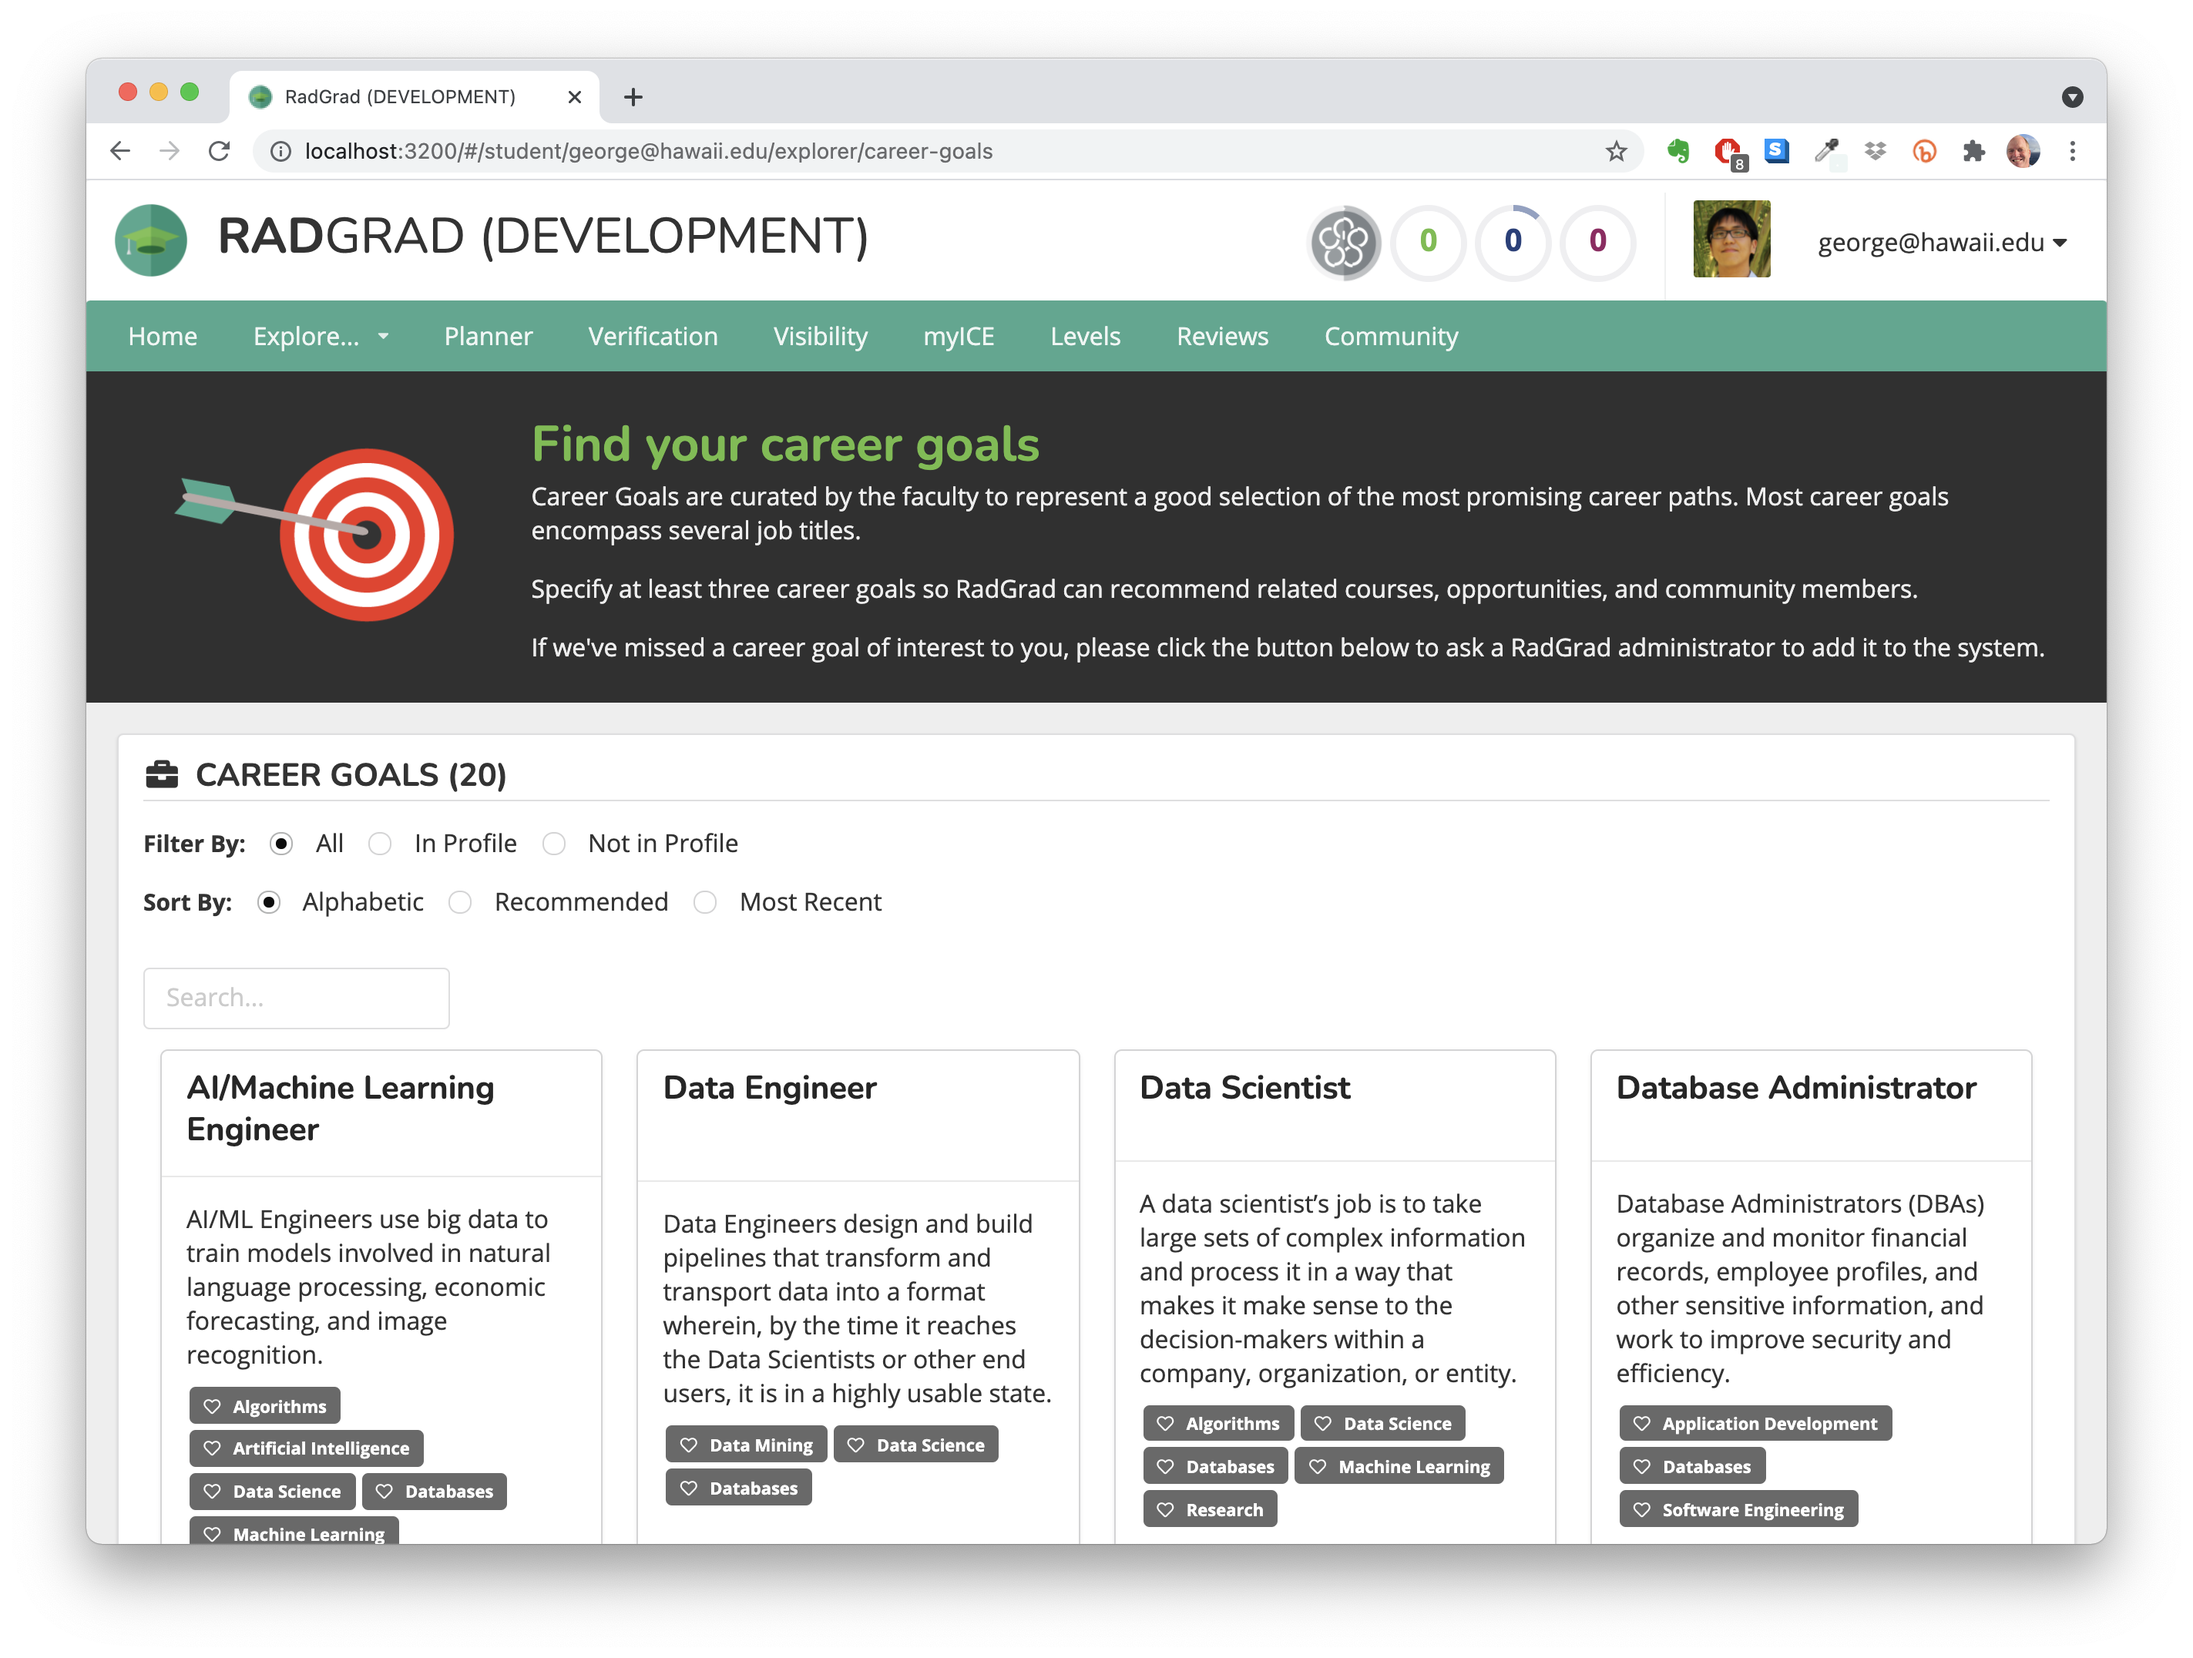
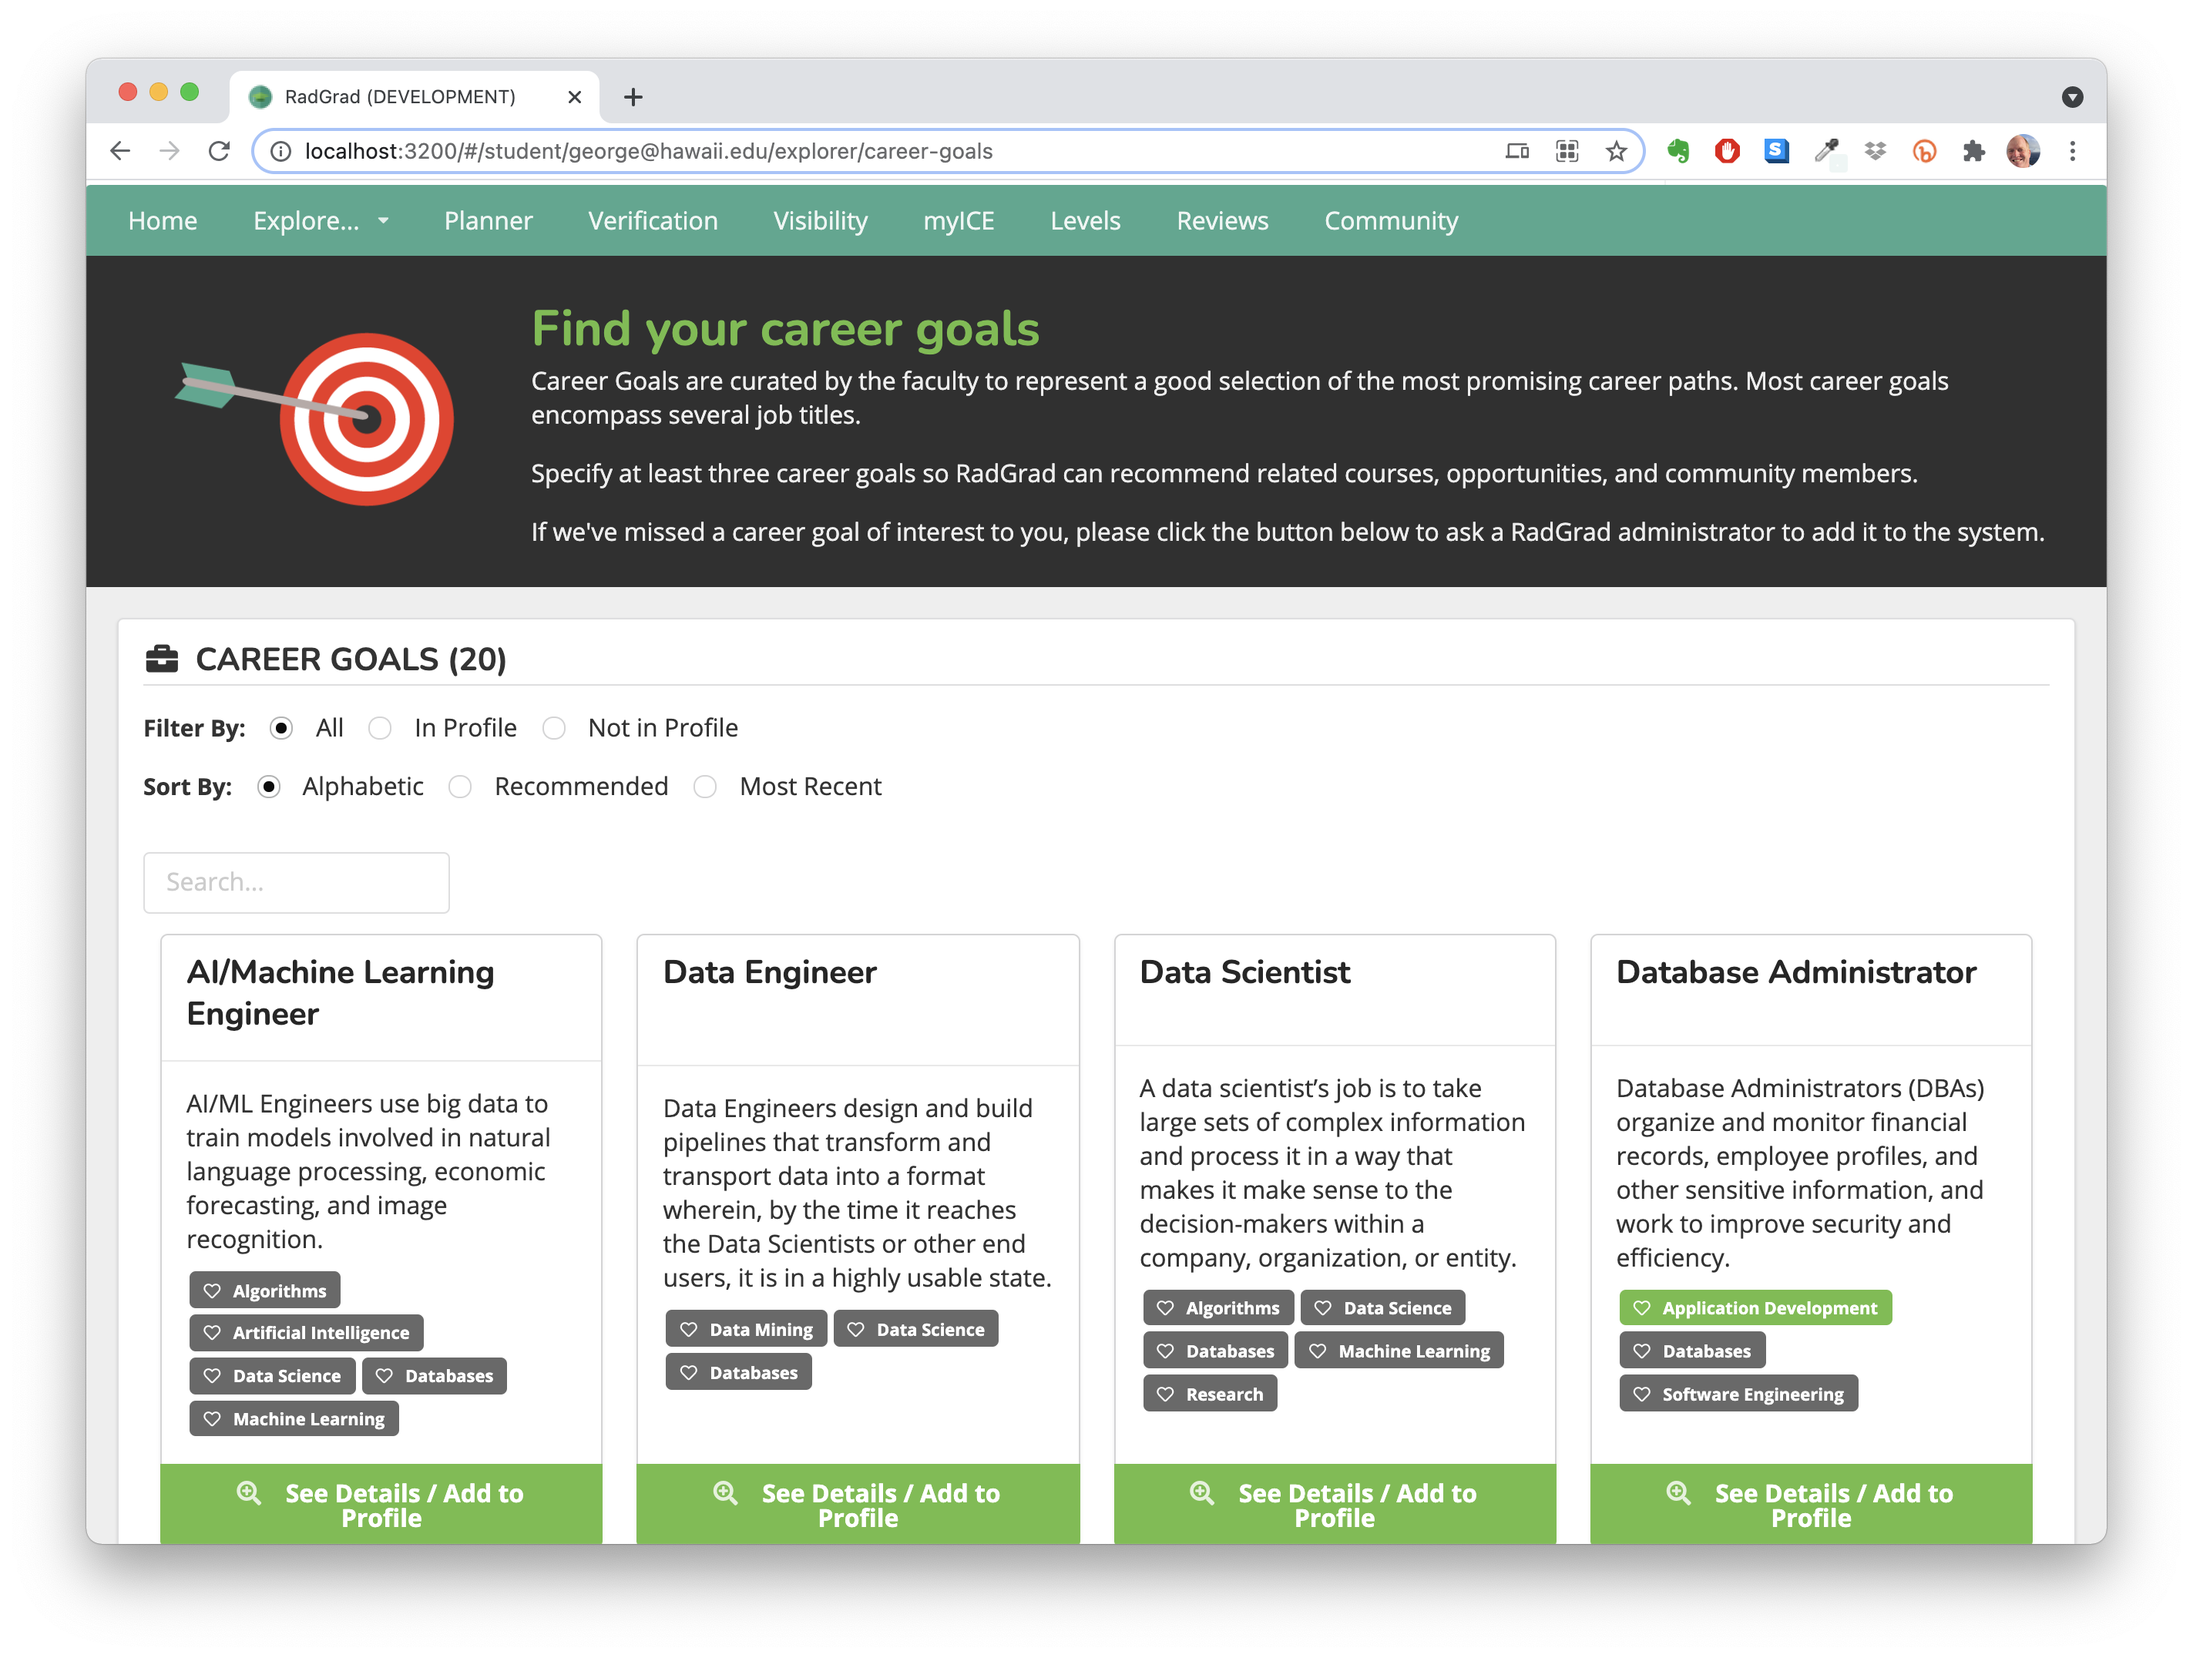
New student guide checkpoint

diff --git a/sidebars.js b/sidebars.js
@@ -77,6 +77,7 @@ module.exports = {
           'users/f21/home',
           'users/f21/interests',
           'users/f21/careerGoals',
+          'users/f21/courses',
         ],
       },
     ],

diff --git a/docs/users/f21/careerGoals.md b/docs/users/f21/careerGoals.md
@@ -14,12 +14,12 @@ You can sort them alphabetically, recommended based upon your interests, or by t
 
 Lastly, you can search the names of the career goals by typing in the Search field.
 
-Each career goal has a name and a brief description. If you want to learn more and add the career goal to your profile click the `See Details / Add to Profile` button.
+Each career goal has a name, a brief description, and a list of associated interests. Interests that are in your profile are shown in green. If you want to learn more and add the career goal to your profile click the `See Details / Add to Profile` button.
 
-For example, here is the Data Scientist details page.
+For example, here is the Database Administrator details page.
 
-![](/img/user-guide/f21/data-scientist-details-page.png)
-![](/img/user-guide/f21/data-scientist-details-page2.png)
+![](/img/user-guide/f21/database-admin-details-page.png)
+![](/img/user-guide/f21/database-admin-details-page2.png)
 
 In the left-hand column we show the related:
 
@@ -36,6 +36,12 @@ In the right-hand column we show more information about the Career Goal:
 * The related faculty who share this career goal.
 * The related advisors who share this career goal.
 
+If you choose to add the Career Goal to your profile RadGrad will ask you if you want to add the career goal's interests to your profile.
+
+![](/img/user-guide/f21/career-goal-add-interests.png)
+
+You can choose which interests, if any, to add to your profile.
+
 :::tip RadGrad walk-through
 It's worth spending some time on the Career Goal Explorer. Read through the different Career Goals. If it is interesting to you click the Add to Profile button. If you add a career goal to your profile RadGrad will ask you if you want to add the career goal's interests to you profile also.
 
@@ -44,4 +50,8 @@ Choose three initial career goals. You can always change them later.
 (Problems with this page? Email radgrad@hawaii.edu to let us know.)
 :::
 
+Now that we have some career goals in our profile, lets go back to the Home Page and take care of the next checklist item `Courses`.
 
+![](/img/user-guide/f21/courses-checklist.png)
+
+Click the `Courses Explorer` button.

diff --git a/docs/users/f21/courses.md b/docs/users/f21/courses.md
@@ -1,0 +1,28 @@
+---
+title: Courses Explorer
+sidebar_label: Courses
+---
+
+Currently, RadGrad has 106 courses related to Computer Science. All RadGrad Explorers have a common look and feel.
+
+![](/img/user-guide/f21/courses-explorer.png)
+
+You can filter, sort, and search courses.
+
+The ICS department has 6 core courses that every student must take, ICS 111, ICS 141, ICS 211, ICS 241, ICS 311, and ICS 314. You should add these courses to your profile.
+
+Then we can sort by recommended. Here's a screen-shot of George's recommended courses:
+
+![](/img/user-guide/f21/recommended-courses.png)
+
+The course details page shows additional information about the course.
+
+![](/img/user-guide/f21/course-details-page.png)
+
+The left-hand column shows related
+
+* Interests
+* Career Goals
+* Opportunities
+
+The right-hand column shows more details about the course, the student participation by semester, and student reviews of the course.
